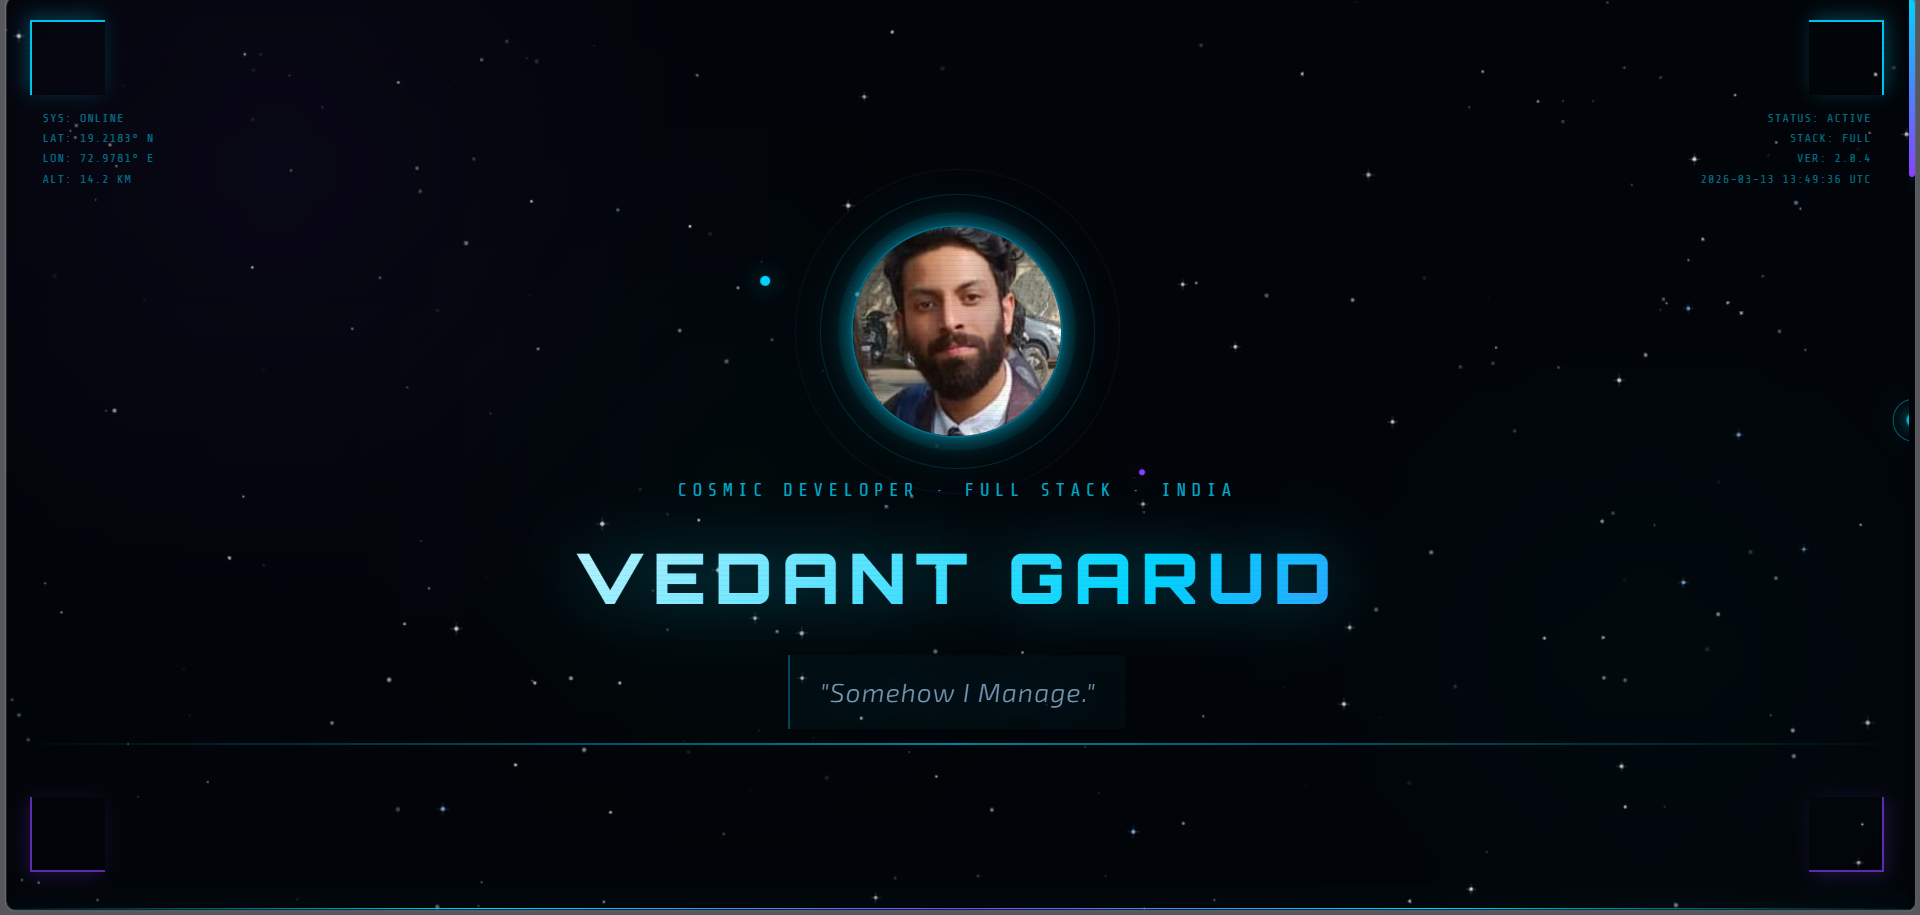
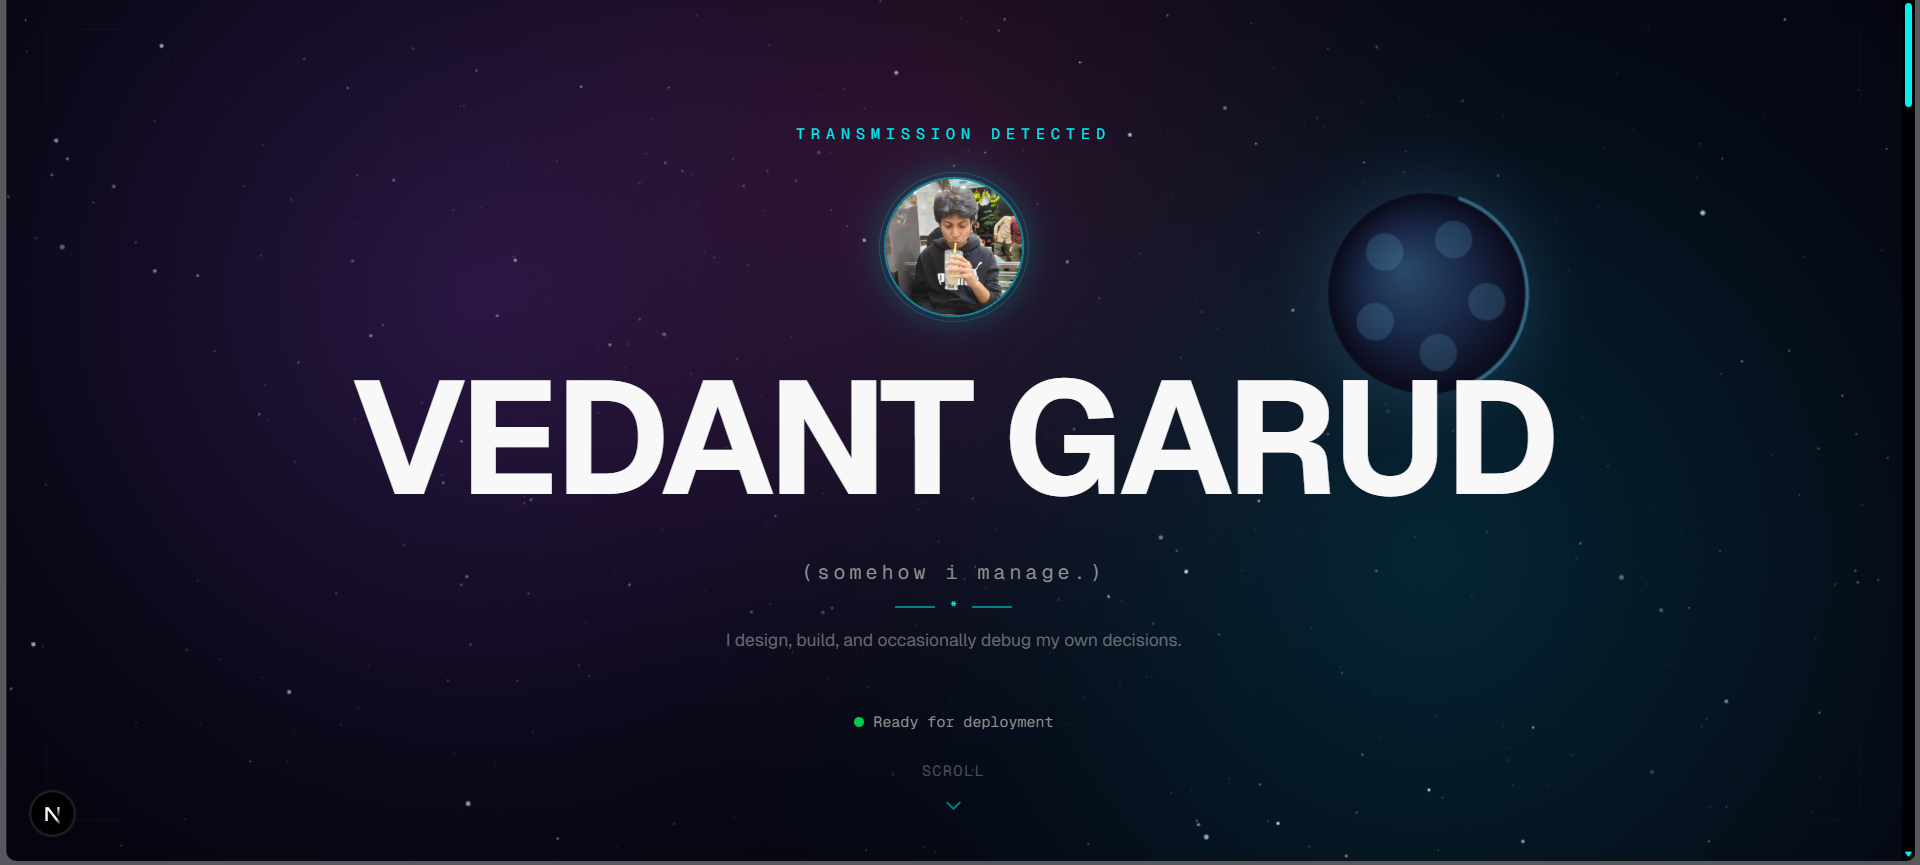
modifying outputs + updating readme

diff --git a/README.md b/README.md
@@ -1,35 +1,35 @@
 # Personal Portfolio Website
 
-A modern **Personal Portfolio Website** built using **HTML, CSS, and JavaScript** to showcase projects, skills, and professional journey.
+A modern **Personal Portfolio Website** built using **Next.js, React, Tailwind CSS, and Three.js** to showcase projects, skills, and professional journey.
 
-The website provides an **interactive and visually engaging platform** for recruiters and collaborators to explore my work.
+The website provides an **interactive and visually engaging 3D platform** for recruiters and collaborators to explore my work.
 
 ---
 
 ## 🌐 Live Concept
 
-This project demonstrates how a developer can create a **digital identity on the web** using client-side scripting techniques.
+This project demonstrates how a developer can create a **digital identity on the web** using modern web development frameworks and 3D rendering techniques.
 
 The portfolio includes:
 
-- Hero introduction section  
-- Space-themed journey timeline  
-- Featured projects showcase  
-- Interactive contact form with validation  
-- Social media integration  
+- Hero introduction section with immersive UI
+- Space-themed journey timeline using 3D rendering
+- Featured projects showcase
+- Interactive contact form with validation
+- Dark/Light mode support
 
 ---
 
 ## ✨ Features
 
-- Interactive Portfolio UI  
-- 3D Models integration using `<model-viewer>`  
-- JavaScript form validation using **Regular Expressions**  
-- Cookie handling using **JavaScript**  
-- Responsive layout  
-- Animated project timeline  
-- Hover button effects  
-- Navigation menu with smooth section access  
+- Interactive 3D Portfolio UI  
+- 3D Models integration using **React Three Fiber & Drei**
+- Smooth animations and transitions using **Framer Motion**
+- Responsive and modern styling using **Tailwind CSS & Radix UI**
+- Static typing and error catching using **TypeScript**
+- Optimized routing and server components using **Next.js 16**
+- Animated project timeline
+- Navigation menu with smooth section access
 
 ---
 
@@ -37,52 +37,60 @@ The portfolio includes:
 
 | Technology | Usage |
 |-----------|------|
-| **HTML5** | Structure of the website |
-| **CSS3** | Styling and layout |
-| **JavaScript** | Interactivity and validation |
-| **Google Model Viewer** | 3D model rendering |
-| **Google Fonts** | Typography |
+| **Next.js 16** | React Framework and Routing |
+| **React 19** | UI Component Library |
+| **TypeScript** | Type-safe development |
+| **Tailwind CSS 4** | Styling and layout |
+| **Framer Motion** | Complex UI animations |
+| **Three.js & R3F** | 3D rendering and models |
+| **Zod & React Hook Form** | Form validation |
 
 ---
 
 ## 📁 Project Structure
 
-```
-personal-portfolio/
+```text
+my-portfolio/
 │
-├── index.html
-├── styles.css
-├── script.js
-│
-├── models/
-│   ├── sun.glb
-│   ├── earth.glb
-│   └── moon.glb
-│
-├── images/
-│   └── profile.jpg
-│
-├── screenshots/
-│   ├── hero.png
-│   ├── about.png
-│   ├── journey.png
-│   ├── projects.png
-│   └── contact.png
-│
-└── README.md
+├── app/                  # Next.js App Router pages and layouts
+├── components/           # Reusable React components (UI, layout, 3D)
+├── hooks/                # Custom React hooks
+├── lib/                  # Utility functions and configurations
+├── public/               # Static assets (3D models, images, etc.)
+├── styles/               # Global CSS styles
+├── screenshots/          # Images used in the README preview
+└── package.json          # Project dependencies and scripts
 ```
 
-### Structure Explanation
+---
 
-| Folder / File | Description |
-|---------------|-------------|
-| `index.html` | Main HTML file containing the website structure |
-| `styles.css` | CSS file responsible for styling and layout |
-| `script.js` | JavaScript file for interactivity, validation, and animations |
-| `models/` | Contains 3D models used in the journey section |
-| `images/` | Stores profile and other website images |
-| `screenshots/` | Images used in the README preview section |
-| `README.md` | Documentation for the project |
+## 🚀 How to Run
+
+To run this project locally on your machine, follow these steps:
+
+1. **Clone the repository:**
+   ```bash
+   git clone <repository-url>
+   cd <repository-directory>
+   ```
+
+2. **Install dependencies:**
+   This project uses `pnpm`, but you can also use `npm` or `yarn`.
+   ```bash
+   pnpm install
+   # or
+   npm install
+   ```
+
+3. **Start the development server:**
+   ```bash
+   pnpm dev
+   # or
+   npm run dev
+   ```
+
+4. **Open your browser:**
+   Navigate to [http://localhost:3000](http://localhost:3000) to view the application.
 
 ---
 
@@ -91,83 +99,30 @@ personal-portfolio/
 ### Hero Section
 ![Hero Section](screenshots/hero.png)
 
+### Projects Section
+![Projects Section](screenshots/projects.png)
+
 ### About Section
 ![About Section](screenshots/about.png)
 
-### Journey Section
+### Education Section
+![Education Section](screenshots/education.png)
 
-This section displays my **education and internship journey using animated 3D planets**.
+### Internship Section
+![Internship Section](screenshots/internship.png)
 
-![Journey Section](screenshots/journey.png)
-
-### Projects Section
-![Projects Section](screenshots/projects.png)
+### Skills Section
+![Skills Section](screenshots/skills.png)
 
 ### Contact Section
 ![Contact Section](screenshots/contact.png)
 
 ---
 
-## ⚙ How It Works
-
-### Navigation Menu
-
-Users can navigate between the following sections:
-
-- About  
-- Journey  
-- Projects  
-- Contact  
-
----
-
-### Form Validation
-
-The contact form uses **JavaScript Regular Expressions** to validate user input.
-
-Example validation:
-
-```javascript
-const nameRegex = /^[a-zA-Z\s]+$/;
-const emailRegex = /^[a-zA-Z0-9]+@[a-z]+\.[a-z]{2,3}$/;
-```
-
----
-
-### Cookie Handling
-
-The website stores the user's name using **browser cookies** when the form is submitted.
-
-```javascript
-document.cookie = "name=" + cookieValue + "; path=/";
-```
-
----
-
-### Button Hover Effect
-
-JavaScript dynamically changes button color during **hover events**.
-
----
-
 ## 🧠 Skills Demonstrated
 
-- Client-side scripting  
-- DOM manipulation  
-- Form validation  
-- Regular Expression (Regex) usage  
-- Cookie handling  
-- UI interaction design  
-- Responsive layout design  
-
----
-
-## 🚀 Applications
-
-This project can be used as:
-
-- **Digital Resume**
-- **Developer Portfolio**
-- **Personal Branding Website**
-
----
+- Modern Web Development (Next.js, React)
+- 3D Graphics and Rendering in the Browser
+- Complex UI Animations
+- Form validation schemas (Zod)
+- Responsive layout design
